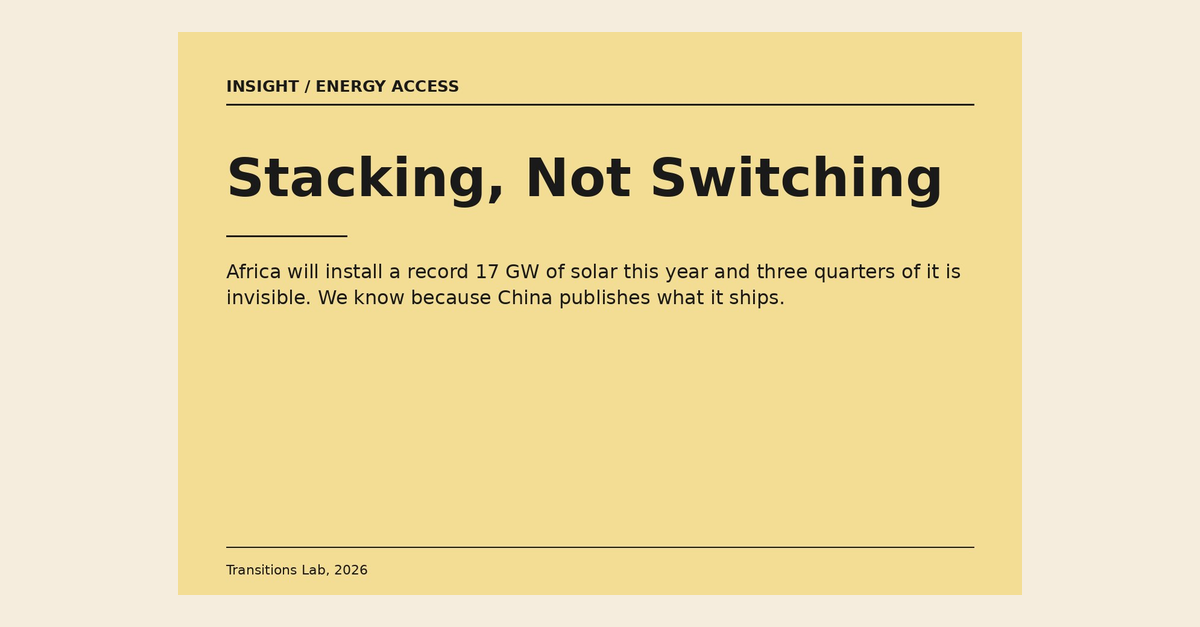
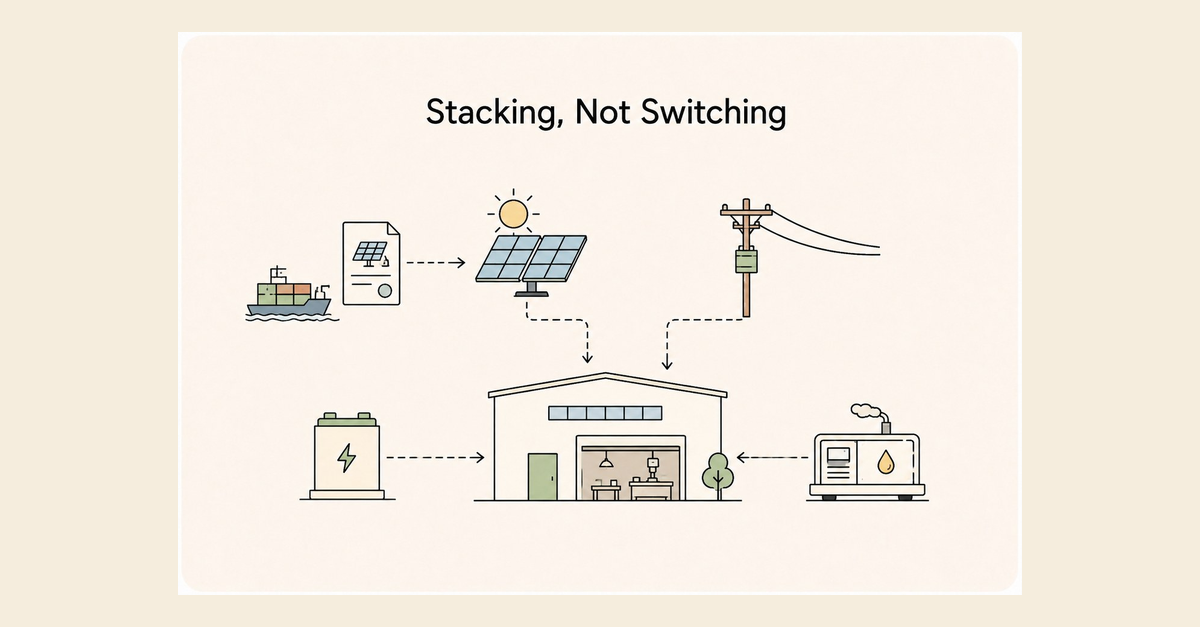
Illustrated hero + embedded Ember chart for Stacking, Not Switching
- Swap the placeholder butter title card for the illustrated one:
  container ship and customs form on the left, dashed arrows up to
  solar panels and a transmission pylon, and down to a small factory
  with a battery bank on one side and a diesel generator on the
  other. The site stacks sources instead of switching between them.
- Embed the Ember and African Tech Futures Lab small-multiples chart
  (36 countries, annual solar installed 2023-2026) directly under the
  paragraph that names the 36-of-54 figure. Reproduced under Ember's
  Creative Commons Attribution licence, with a caption crediting and
  linking back to the original report at ember-energy.org.
- Alt text and OG card regenerated from the new hero.

Claude-Session: https://claude.ai/code/session_01UTkcwmfvBCDVuALj2XrD2r

diff --git a/insight-stacking-not-switching.html b/insight-stacking-not-switching.html
@@ -106,11 +106,15 @@
       
       <p class="article-meta"><span class="article-date">29 August 2026</span> · <span class="article-reading-time">8 min read</span></p>
 <figure>
-<img src="/assets/img/insight-stacking-not-switching-diagram.jpg" alt="A butter-yellow title card marking Stacking, Not Switching, on Africa's solar boom, invisible installations, and the difference between capacity installed and fuel displaced." class="diagram">
-<figcaption>The panels are on the roofs. The generator is still in the yard. That distinction is where the story lives.</figcaption>
+<img src="/assets/img/insight-stacking-not-switching-diagram.jpg" alt="Line-art scene: a container ship and a shipping form on the left, dashed arrows leading up to solar panels and a transmission pylon in the sky, and downward to a small factory with a battery unit on one side and a diesel generator on the other. All four supply routes converge on the same building — the site is stacking sources, not switching." class="diagram">
+<figcaption>The panels are on the roof, the grid line comes in from one side, the battery bank sits on the other, and the diesel generator has not gone anywhere. That is what the boom looks like from the site.</figcaption>
 </figure>
 <h2>What Africa's solar boom is, what it is not, and why we can only see it through somebody else's customs data</h2>
 <p>Ember and the African Tech Futures Lab have published estimates showing that <a href="https://ember-energy.org/latest-insights/the-take-off-in-african-solar-that-official-statistics-cant-yet-see/" target="_blank" rel="noopener">Africa will install a record 17 gigawatts of solar in 2026, up 45 per cent year on year and the third consecutive record</a>, equivalent to around a hundred thousand panels a day. Thirty six of Africa's fifty four countries are expected to install record amounts, with nineteen countries growing more than 100 per cent year on year, including 544 per cent in the Democratic Republic of Congo, 282 per cent in Zimbabwe, 176 per cent in Egypt and 117 per cent in Zambia. South Africa's share of African installations will fall below a fifth for the first time since 2019.</p>
+<figure class="tl-figure">
+<img src="/assets/img/insight-stacking-ember-chart.jpg" alt="Small-multiple bar charts for 36 African countries showing annual solar capacity installed in megawatts from 2023 to 2026. In almost every panel the 2026 bar is the tallest, often by a wide margin. Countries covered include Algeria, Burundi, Cabo Verde, Cameroon, Central African Republic, Comoros, Congo (DRC), Congo (Rep.), Egypt, Equatorial Guinea, Eswatini, Ethiopia, Gabon, Ghana, Guinea, Guinea-Bissau, Kenya, Lesotho, Libya, Madagascar, Mauritius, Morocco, Mozambique, Namibia, Niger, Nigeria, Rwanda, Seychelles, Sierra Leone, Somalia, Sudan, Tanzania, Togo, Uganda, Zambia and Zimbabwe.">
+<figcaption>Solar capacity installed annually, 2023 to 2026, in megawatts. Chart by <a href="https://ember-energy.org/latest-insights/the-take-off-in-african-solar-that-official-statistics-cant-yet-see/">Ember and the African Tech Futures Lab</a>, reproduced under Creative Commons Attribution.</figcaption>
+</figure>
 <p>This is not a marginal development and it should not be read as one. Senegal will add solar capacity between 2023 and 2026 equivalent to almost 80 per cent of its entire 2023 grid capacity, with the DRC and Kenya each adding more than half. The 2026 installations will generate around 23 terawatt hours a year, which is 2.3 per cent of Africa's electricity generation, slightly above the 2.2 per cent average annual demand growth of the previous decade.</p>
 <p>In ten countries, this year's new solar adds more than a tenth of annual grid generation.</p>
 <div class="table-wrap"><table class="tbl"><thead><tr><th>Country</th><th>New solar as share of annual grid generation</th></tr></thead><tbody><tr><td>Sierra Leone</td><td>97%</td></tr><tr><td>Togo</td><td>24%</td></tr><tr><td>Somalia</td><td>21%</td></tr><tr><td>Djibouti</td><td>21%</td></tr><tr><td>DRC</td><td>14%</td></tr><tr><td>Comoros</td><td>14%</td></tr><tr><td>Namibia</td><td>12%</td></tr><tr><td>Liberia</td><td>12%</td></tr><tr><td>Chad</td><td>11%</td></tr><tr><td>Lesotho</td><td>10%</td></tr></tbody></table></div>

diff --git a/articles.html b/articles.html
@@ -145,7 +145,7 @@
   <p class="filter-empty" hidden>No articles match that combination. <button type="button" class="filter-reset">Reset filters</button></p>
 </div>
 <div class="article-list"><div class="article-item has-thumb" data-category="energy" data-geography="africa" data-month="2026-08">
-    <a class="article-thumb-link" href="/insight-stacking-not-switching"><img class="article-thumb" src="/assets/img/insight-stacking-not-switching-diagram.jpg" alt="A butter-yellow title card marking Stacking, Not Switching, on Africa's solar boom, invisible installations and the difference between capacity installed and fuel displaced."></a>
+    <a class="article-thumb-link" href="/insight-stacking-not-switching"><img class="article-thumb" src="/assets/img/insight-stacking-not-switching-diagram.jpg" alt="Line-art scene: container ship and shipping form on the left, dashed arrows up to solar panels and a transmission pylon and down to a factory with a battery on one side and a diesel generator on the other — the site stacking sources, not switching."></a>
     <div class="article-body">
       <a class="article-title" href="/insight-stacking-not-switching">Stacking, Not Switching</a>
       <div class="article-meta">29 August 2026</div>

diff --git a/index.html b/index.html
@@ -254,7 +254,7 @@
       </a>
       <a class="insight-card has-photo" href="/insight-stacking-not-switching">
         <div class="card-photo">
-          <img src="/assets/img/insight-stacking-not-switching-diagram.jpg" alt="A butter-yellow title card marking Stacking, Not Switching, on Africa's solar boom, invisible installations, and the difference between capacity installed and fuel displaced.">
+          <img src="/assets/img/insight-stacking-not-switching-diagram.jpg" alt="Line-art scene: a container ship and a shipping form on the left, dashed arrows to solar panels and a transmission pylon in the sky, and downward to a small factory with a battery on one side and a diesel generator on the other — the site is stacking sources, not switching.">
           <span class="kicker">Insight &middot; Energy Access</span>
         </div>
         <div class="body">

diff --git a/_build.py b/_build.py
@@ -1372,7 +1372,7 @@ def build_home() -> str:
       </a>
       <a class="insight-card has-photo" href="/insight-stacking-not-switching">
         <div class="card-photo">
-          <img src="/assets/img/insight-stacking-not-switching-diagram.jpg" alt="A butter-yellow title card marking Stacking, Not Switching, on Africa's solar boom, invisible installations, and the difference between capacity installed and fuel displaced.">
+          <img src="/assets/img/insight-stacking-not-switching-diagram.jpg" alt="Line-art scene: a container ship and a shipping form on the left, dashed arrows to solar panels and a transmission pylon in the sky, and downward to a small factory with a battery on one side and a diesel generator on the other — the site is stacking sources, not switching.">
           <span class="kicker">Insight &middot; Energy Access</span>
         </div>
         <div class="body">

diff --git a/content/insight-stacking-not-switching.md b/content/insight-stacking-not-switching.md
@@ -7,14 +7,20 @@
 <p class="article-meta"><span class="article-date">29 August 2026</span> · <span class="article-reading-time">8 min read</span></p>
 
 <figure>
-<img src="/assets/img/insight-stacking-not-switching-diagram.jpg" alt="A butter-yellow title card marking Stacking, Not Switching, on Africa's solar boom, invisible installations, and the difference between capacity installed and fuel displaced." class="diagram">
-<figcaption>The panels are on the roofs. The generator is still in the yard. That distinction is where the story lives.</figcaption>
+<img src="/assets/img/insight-stacking-not-switching-diagram.jpg" alt="Line-art scene: a container ship and a shipping form on the left, dashed arrows leading up to solar panels and a transmission pylon in the sky, and downward to a small factory with a battery unit on one side and a diesel generator on the other. All four supply routes converge on the same building — the site is stacking sources, not switching." class="diagram">
+<figcaption>The panels are on the roof, the grid line comes in from one side, the battery bank sits on the other, and the diesel generator has not gone anywhere. That is what the boom looks like from the site.</figcaption>
 </figure>
 
 
 ## What Africa's solar boom is, what it is not, and why we can only see it through somebody else's customs data
 
 Ember and the African Tech Futures Lab have published estimates showing that [Africa will install a record 17 gigawatts of solar in 2026, up 45 per cent year on year and the third consecutive record](https://ember-energy.org/latest-insights/the-take-off-in-african-solar-that-official-statistics-cant-yet-see/), equivalent to around a hundred thousand panels a day. Thirty six of Africa's fifty four countries are expected to install record amounts, with nineteen countries growing more than 100 per cent year on year, including 544 per cent in the Democratic Republic of Congo, 282 per cent in Zimbabwe, 176 per cent in Egypt and 117 per cent in Zambia. South Africa's share of African installations will fall below a fifth for the first time since 2019.
+
+<figure class="tl-figure">
+<img src="/assets/img/insight-stacking-ember-chart.jpg" alt="Small-multiple bar charts for 36 African countries showing annual solar capacity installed in megawatts from 2023 to 2026. In almost every panel the 2026 bar is the tallest, often by a wide margin. Countries covered include Algeria, Burundi, Cabo Verde, Cameroon, Central African Republic, Comoros, Congo (DRC), Congo (Rep.), Egypt, Equatorial Guinea, Eswatini, Ethiopia, Gabon, Ghana, Guinea, Guinea-Bissau, Kenya, Lesotho, Libya, Madagascar, Mauritius, Morocco, Mozambique, Namibia, Niger, Nigeria, Rwanda, Seychelles, Sierra Leone, Somalia, Sudan, Tanzania, Togo, Uganda, Zambia and Zimbabwe.">
+<figcaption>Solar capacity installed annually, 2023 to 2026, in megawatts. Chart by <a href="https://ember-energy.org/latest-insights/the-take-off-in-african-solar-that-official-statistics-cant-yet-see/">Ember and the African Tech Futures Lab</a>, reproduced under Creative Commons Attribution.</figcaption>
+</figure>
+
 
 This is not a marginal development and it should not be read as one. Senegal will add solar capacity between 2023 and 2026 equivalent to almost 80 per cent of its entire 2023 grid capacity, with the DRC and Kenya each adding more than half. The 2026 installations will generate around 23 terawatt hours a year, which is 2.3 per cent of Africa's electricity generation, slightly above the 2.2 per cent average annual demand growth of the previous decade.
 

diff --git a/content/articles.md b/content/articles.md
@@ -49,7 +49,7 @@ The Lab publishes articles for the same reason it takes on any research: some qu
 </div>
 
 <div class="article-list"><div class="article-item has-thumb" data-category="energy" data-geography="africa" data-month="2026-08">
-    <a class="article-thumb-link" href="/insight-stacking-not-switching"><img class="article-thumb" src="/assets/img/insight-stacking-not-switching-diagram.jpg" alt="A butter-yellow title card marking Stacking, Not Switching, on Africa's solar boom, invisible installations and the difference between capacity installed and fuel displaced."></a>
+    <a class="article-thumb-link" href="/insight-stacking-not-switching"><img class="article-thumb" src="/assets/img/insight-stacking-not-switching-diagram.jpg" alt="Line-art scene: container ship and shipping form on the left, dashed arrows up to solar panels and a transmission pylon and down to a factory with a battery on one side and a diesel generator on the other — the site stacking sources, not switching."></a>
     <div class="article-body">
       <a class="article-title" href="/insight-stacking-not-switching">Stacking, Not Switching</a>
       <div class="article-meta">29 August 2026</div>
